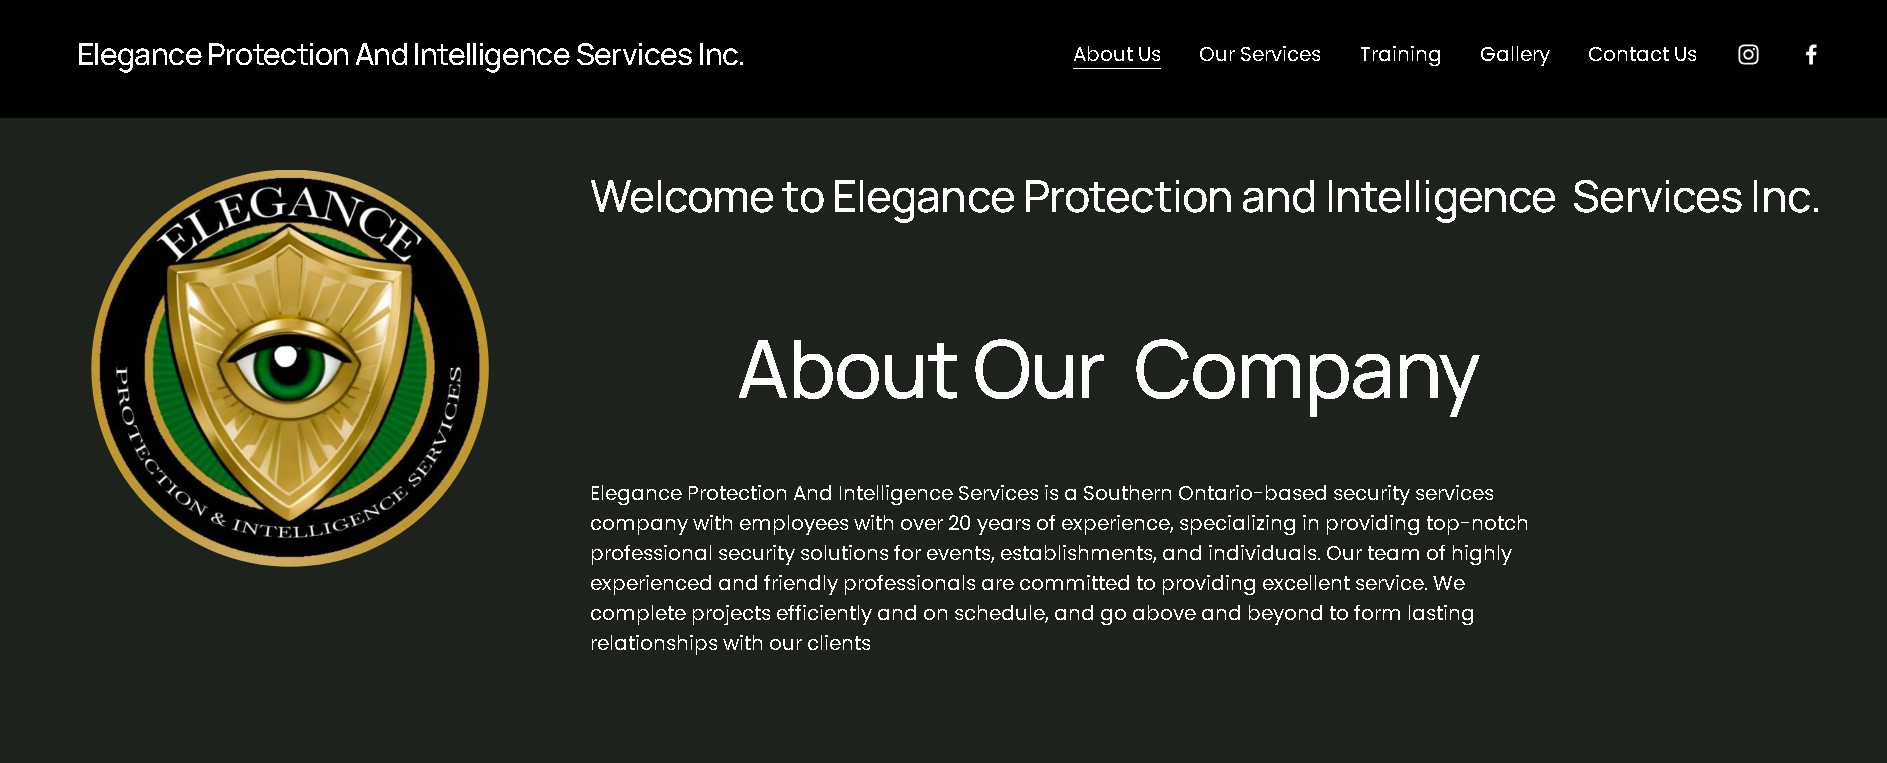
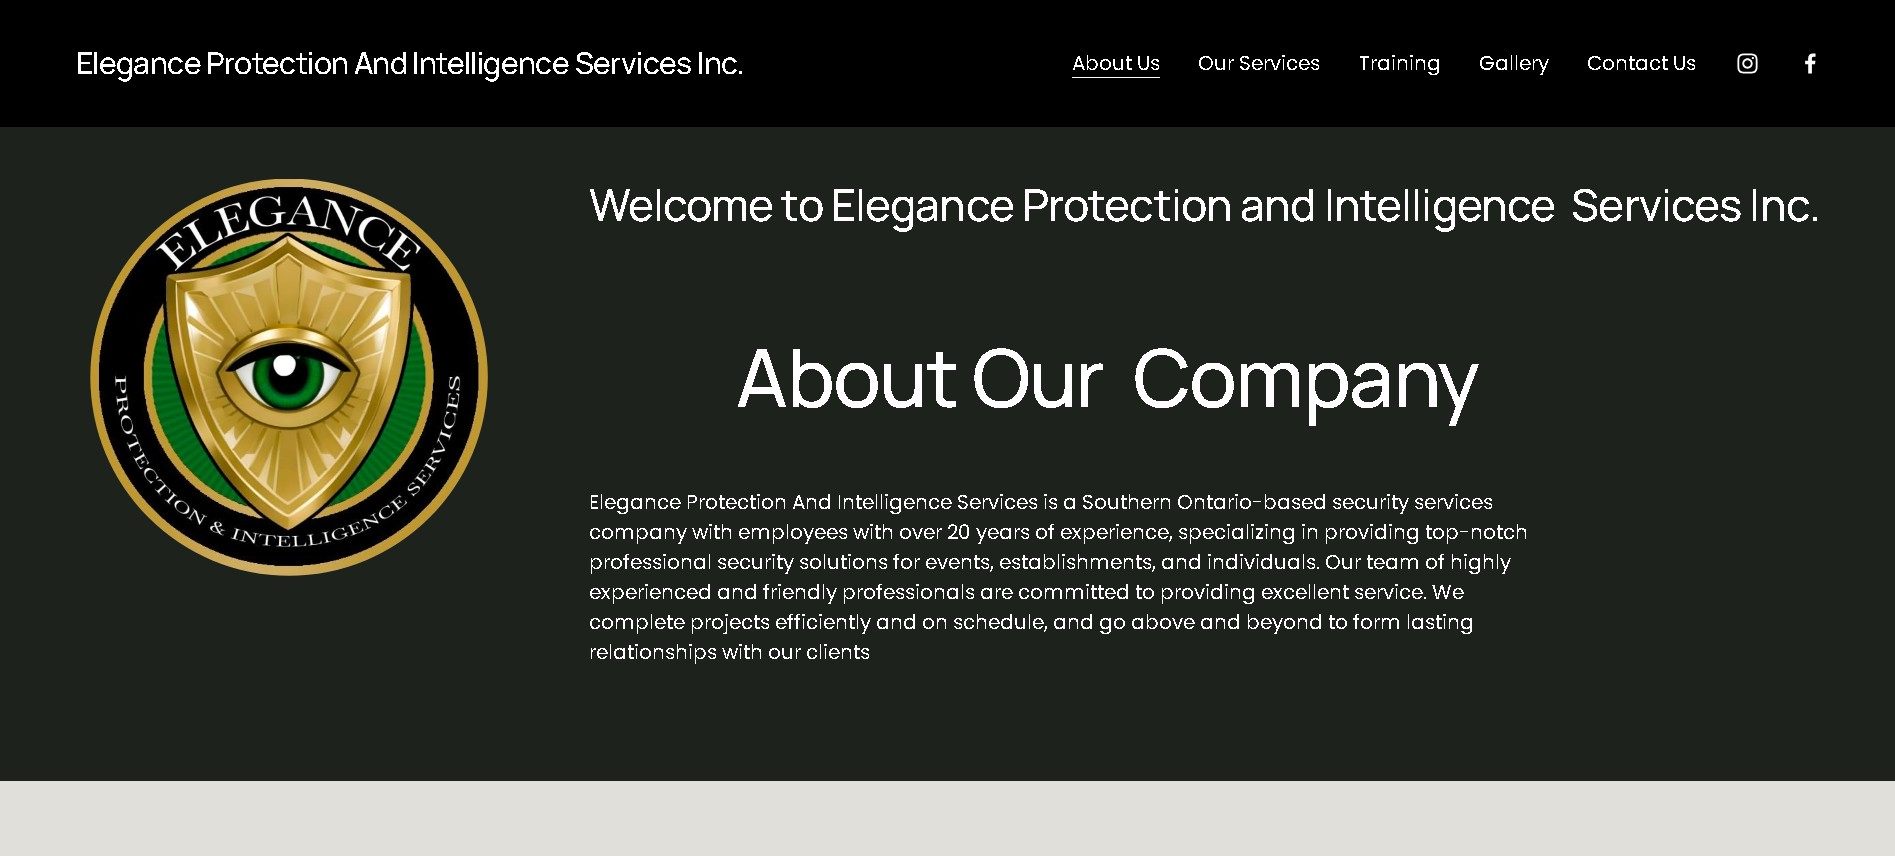
adjusted project section

diff --git a/index.html b/index.html
@@ -158,7 +158,7 @@
                 <div class="slide">
                 <div class="image">
                     <div class="portfolio-box"></div>
-                    <img class="image__img" src="images/Elegance-Protection.jpg" alt="Elegance Protection" height="500px" width="2000px">
+                    <img class="image__img" src="images/Elegance-Protection.jpg" alt="Elegance Protection">
                     <div class="image__overlay image__overlay--blur">
                         <div class="image__title">Elegance Protection</div>
                   
